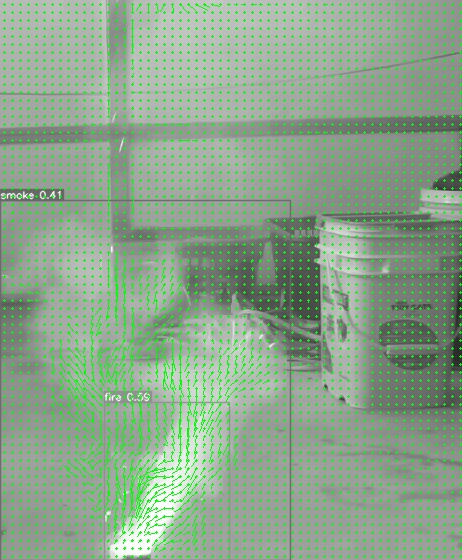
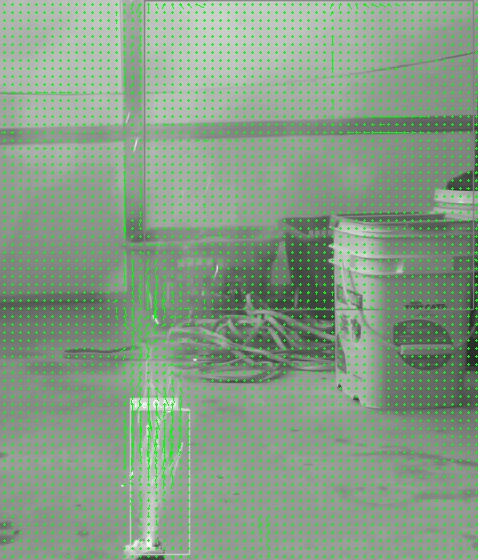
first fix | working?

diff --git a/detect.py b/detect.py
@@ -245,16 +245,24 @@ def detect(save_img=False):
                   print("Number of detection in buffer: ", len(list_of_cropped_detections))
                   list_of_cropped_detections = [] # reset list of cropped detections
 
-                  optical_flow = my_utils.optical_flow.calculate_optical_flow(ready_for_opt_flow) # add 'hsv' as second param for hsv
+                  # optical_flow = my_utils.optical_flow.calculate_optical_flow(ready_for_opt_flow) # add 'hsv' as second param for hsv
                   # counter only needed when saving flows for creating flow dataset
                   # OPT_FLOW_COUNTER = OPT_FLOW_COUNTER + 1
 
+                  
                
                   if(bbox_fire):
                      average_bounding_box_fire = my_utils.bb_average.calculate_average_bbox(list_of_coordinates_of_cropped_detections_fire)
                      print("\nNumber of fire detections: ", len(list_of_coordinates_of_cropped_detections_fire))
                      average_fire_detection = my_utils.bb_average.draw_average_bbox(average_bounding_box_fire, ready_for_opt_flow[-1][0], "fire")
-                     fire_optical_flow = optical_flow[average_bounding_box_fire[0]:average_bounding_box_fire[1], average_bounding_box_fire[2]:average_bounding_box_fire[3], :]
+                     
+                     cropped_frames_for_opt_flow = []
+                     for frame in ready_for_opt_flow:
+                        cropped_frames_for_opt_flow.append([frame[0][average_bounding_box_fire[0]:average_bounding_box_fire[1], average_bounding_box_fire[2]:average_bounding_box_fire[3], :], frame[1], frame[2]])
+                     fire_optical_flow = my_utils.optical_flow.calculate_optical_flow(cropped_frames_for_opt_flow)
+
+
+                     #fire_optical_flow = optical_flow[average_bounding_box_fire[0]:average_bounding_box_fire[1], average_bounding_box_fire[2]:average_bounding_box_fire[3], :]
                      fire_subsampled_flow = my_utils.subsample_flow.subsample(fire_optical_flow)
                      my_utils.optical_flow.save_optical_flow(fire_optical_flow, average_fire_detection, "flow" , "fire")
                      # my_utils.file_manager.save_optical_flow(fire_subsampled_flow, f"./output_flow/fire/fire_{source[-9:-4]}_{OPT_FLOW_COUNTER}")
@@ -267,13 +275,22 @@ def detect(save_img=False):
                      average_bounding_box_smoke = my_utils.bb_average.calculate_average_bbox(list_of_coordinates_of_cropped_detections_smoke)
                      print("\nNumber of smoke detections: ", len(list_of_coordinates_of_cropped_detections_smoke))
                      average_smoke_detection = my_utils.bb_average.draw_average_bbox(average_bounding_box_smoke, ready_for_opt_flow[-1][0], "smoke")
-                     smoke_optical_flow = optical_flow[average_bounding_box_smoke[0]:average_bounding_box_smoke[1], average_bounding_box_smoke[2]:average_bounding_box_smoke[3], :]
+                     
+                     
+                     cropped_frames_for_opt_flow = []
+                     for frame in ready_for_opt_flow:
+                        cropped_frames_for_opt_flow.append([frame[0][average_bounding_box_smoke[0]:average_bounding_box_smoke[1], average_bounding_box_smoke[2]:average_bounding_box_smoke[3], :], frame[1], frame[2]])
+                     smoke_optical_flow = my_utils.optical_flow.calculate_optical_flow(cropped_frames_for_opt_flow)
+
+
+                     #smoke_optical_flow = optical_flow[average_bounding_box_smoke[0]:average_bounding_box_smoke[1], average_bounding_box_smoke[2]:average_bounding_box_smoke[3], :]
                      smoke_subsampled_flow = my_utils.subsample_flow.subsample(smoke_optical_flow)
                      my_utils.optical_flow.save_optical_flow(smoke_optical_flow, average_smoke_detection, "flow" , "smoke")
                      # my_utils.file_manager.save_optical_flow(smoke_subsampled_flow, f"./output_flow/smoke/smoke_{source[-9:-4]}_{OPT_FLOW_COUNTER}")
                      SVM_prediction = SVM.main.pred(SVM_model, smoke_subsampled_flow)
                      print("SVM classifier prediction for smoke:", bool(int(SVM_prediction)), "-- (with {:.1f}% accuracy)".format(float(SVM_accuracy) * 100))
                      print("Average YOLOv7 confidence for smoke: %.2f" % float(sum(list_of_smoke_confidence)/len(list_of_smoke_confidence)))
+                     # my_utils.optical_flow.draw_optical_flow(smoke_optical_flow, cropped_frames_for_opt_flow[-1][0], param='flow')
                   
                   print("--------- END BUFFER OUTPUT ---------")
                   
@@ -285,7 +302,7 @@ def detect(save_img=False):
                   # print("ready for opt flow shape: ", ready_for_opt_flow[-1][0].shape)
                   # -------------------------------------
 
-                  my_utils.optical_flow.draw_optical_flow(optical_flow, ready_for_opt_flow[-1][0], param='flow')
+                  
                   
 
 
